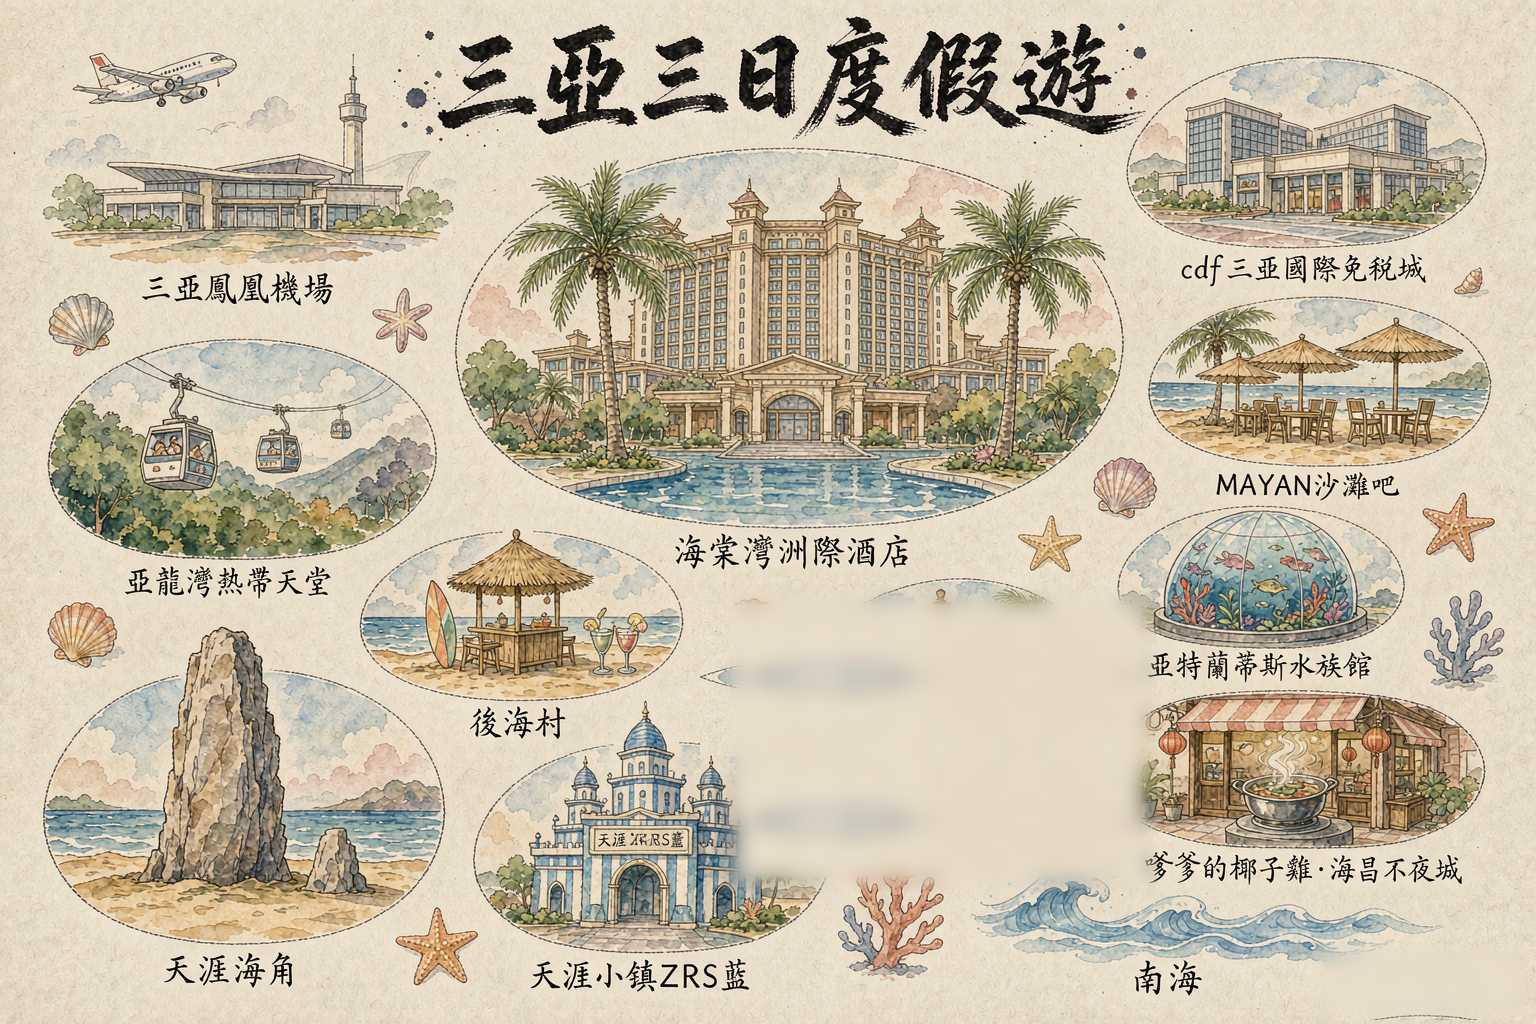
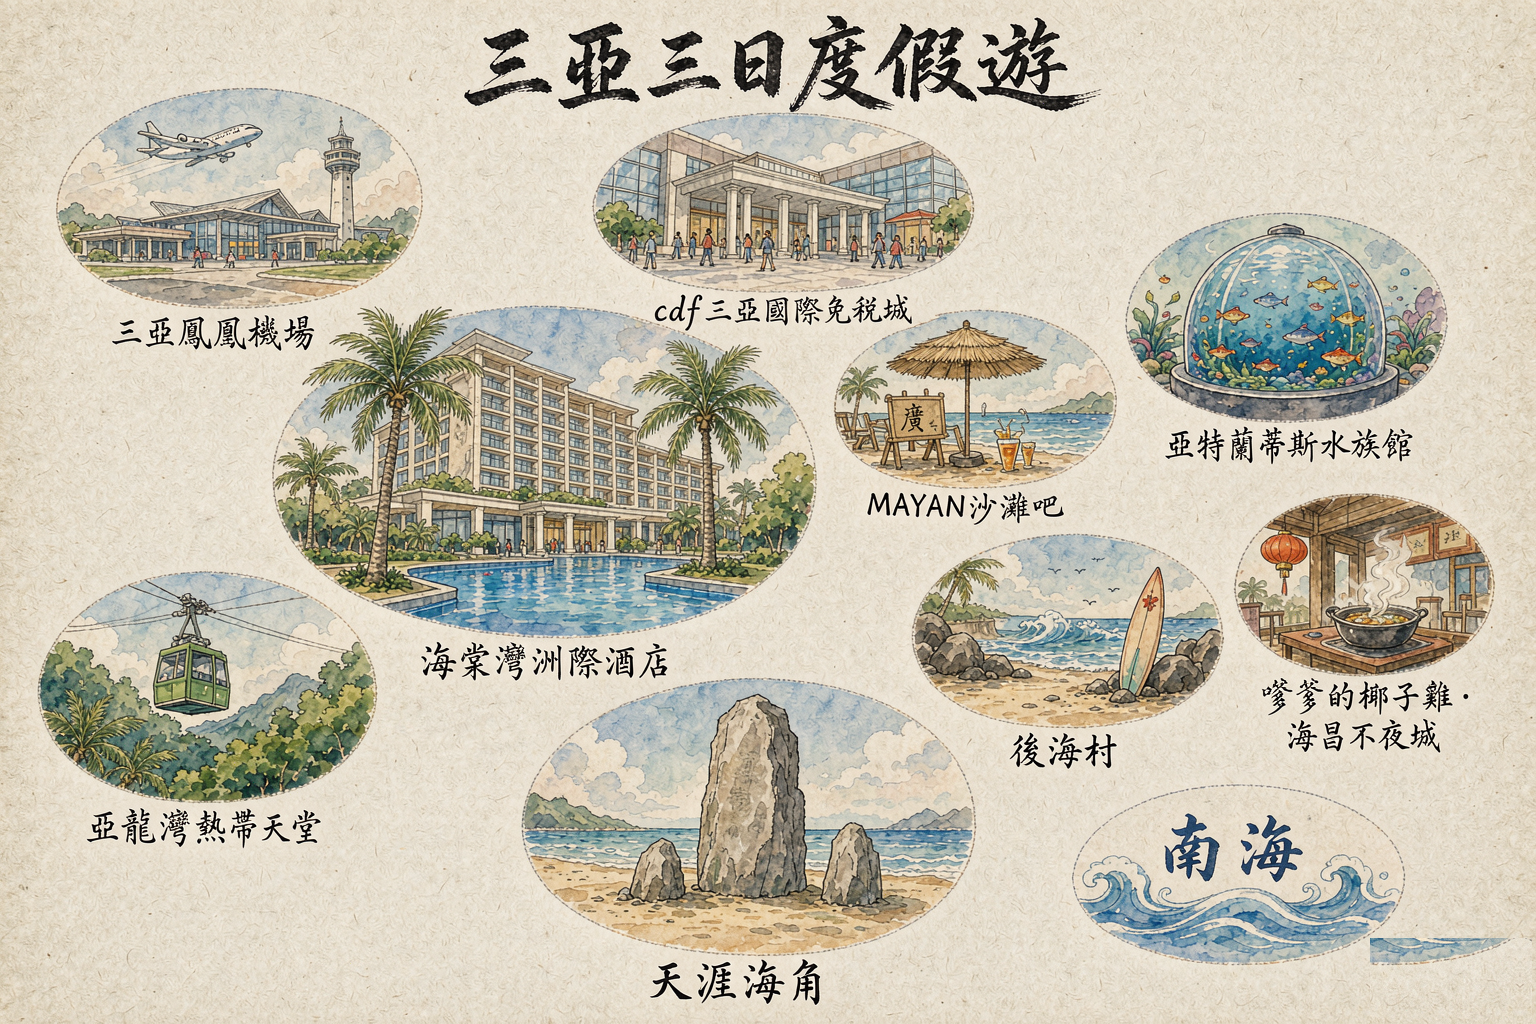
Sanya cover map v3: regenerated clean 10-vignette base (no ZRS, no duplicates, no lines); watermark removed via mirrored paper grain instead of blur - fixes hazy patch

diff --git a/sanya/index.html b/sanya/index.html
@@ -700,7 +700,7 @@ table.t tr.sum td:first-child{color:var(--sea-700)}
   <div class="wrap">
     <figure class="summ rv">
       <div class="summ__frame">
-        <img src="assets/cartoon-preview/map_web.jpg"
+        <img src="assets/cartoon-preview/map_web.jpg?v=3"
              alt="三亞三日度假遊手繪水彩行程地圖"
              loading="lazy" decoding="async"
              width="1536" height="1024">

diff --git a/sanya/assets/cartoon-preview/cover_overlay.py b/sanya/assets/cartoon-preview/cover_overlay.py
@@ -1,135 +1,26 @@
 # -*- coding: utf-8 -*-
-import math, random
-from PIL import Image, ImageDraw, ImageFont, ImageFilter
+import random
+from PIL import Image
 
-SRC = "A_hand_drawn_watercolor_illust_2026-10-06T02-33-54.png"
+SRC = "A_hand_drawn_watercolor_illust_2026-10-06T05-20-31.png"
 im = Image.open(SRC).convert("RGB").resize((1536, 1024), Image.LANCZOS)
 arr = im.load()
 W, H = 1536, 1024
+rng = random.Random(7)
 
-EXCLUDE = [(890, 620, 1210, 870), (730, 595, 1150, 885), (1240, 900, W, H)]
-
-def find_clean_block(bw, bh):
-    """Scan for the smoothest, lightest paper window of size bw x bh."""
-    g = im.convert('L')
-    gp = g.load()
-    best, best_score = None, 1e9
-    for y0 in range(2, H - bh - 2, 12):
-        for x0 in range(2, W - bw - 2, 16):
-            if any(x0 < ex1 and x0 + bw > ex0 and y0 < ey1 and y0 + bh > ey0
-                   for ex0, ey0, ex1, ey1 in EXCLUDE):
-                continue
-            mn, mx, s, s2 = 255, 0, 0.0, 0.0
-            n = 0
-            for y in range(y0, y0 + bh, 4):
-                for x in range(x0, x0 + bw, 6):
-                    v = gp[x, y]
-                    if v < mn: mn = v
-                    if v > mx: mx = v
-                    s += v; s2 += v * v; n += 1
-            mean = s / n
-            var = s2 / n - mean * mean
-            score = var ** 0.5 + max(0, 170 - mn) * 2 + max(0, mean - 225) * 2
-            if score < best_score:
-                best_score, best = score, (x0, y0)
-    return best[0], best[1], best[0] + bw, best[1] + bh
-
-CLEAN = find_clean_block(285, 72)
-
-def paper_fill(x0, y0, x1, y1, seed=3, noise=4):
-    """Clone-stamp the cleanest paper block found."""
-    rng = random.Random(seed)
-    sx0, sy0, sx1, sy1 = CLEAN
-    bw, bh = sx1 - sx0, sy1 - sy0
-    for y in range(y0, y1):
-        iy = (y - y0) % (2 * bh)
-        src_y = sy0 + (iy if iy < bh else 2 * bh - iy - 1)
-        for x in range(x0, x1):
-            ix = (x - x0) % (2 * bw)
-            src_x = sx0 + (ix if ix < bw else 2 * bw - ix - 1)
-            c = arr[src_x, src_y]
-            n = rng.randint(-noise, noise)
-            arr[x, y] = tuple(max(0, min(255, c[i]+n)) for i in range(3))
-
-paper_fill(700, 605, 1140, 755, 3)
-paper_fill(740, 605, 1140, 875, 3)
-paper_fill(1330, 960, W-4, H-4, 9, 5)
-dr = ImageDraw.Draw(im)
-
-SC = {
-    "airport":  ((213, 128), (170, 85)),
-    "cdf":      ((1329, 156), (150, 72)),
-    "hotel":    ((774, 362), (306, 192)),
-    "mayan":    ((1329, 402), (163, 68)),
-    "aquarium": ((1294, 637), (128, 75)),
-    "diadia":   ((1304, 796), (146, 71)),
-    "houhai":   ((480, 630), (117, 82)),
-    "yalong":   ((242, 490), (156, 100)),
-    "tianya":   ((256, 819), (199, 103)),
-    "town":     ((619, 846), (114, 92)),
-}
-GAP = 10
-
-def edge(p_from, p_to, r):
-    dx, dy = p_to[0]-p_from[0], p_to[1]-p_from[1]
-    L = math.hypot(dx, dy) or 1.0
-    ux, uy = dx/L, dy/L
-    ray = 1.0/math.sqrt((ux/r[0])**2 + (uy/r[1])**2)
-    k = min(ray + GAP, L)
-    return (p_from[0] + ux*k, p_from[1] + uy*k)
-
-def qbez(p0, pc, p2, t):
-    mt = 1 - t
-    return (mt*mt*p0[0] + 2*mt*t*pc[0] + t*t*p2[0],
-            mt*mt*p0[1] + 2*mt*t*pc[1] + t*t*p2[1])
-
-def dashed(dr, pts, color, dash=15, gap=11, width=6):
-    cur = pts[0]
-    on, remain = True, float(dash)
-    for nxt in pts[1:]:
-        seg = math.hypot(nxt[0]-cur[0], nxt[1]-cur[1])
-        t = 0.0
-        while t < seg:
-            step = min(remain, seg - t)
-            a = (cur[0] + (nxt[0]-cur[0])*t/seg, cur[1] + (nxt[1]-cur[1])*t/seg)
-            if on:
-                b = (cur[0] + (nxt[0]-cur[0])*min(t+step, seg)/seg,
-                     cur[1] + (nxt[1]-cur[1])*min(t+step, seg)/seg)
-                dr.line([a, b], fill=color, width=width)
-                r = width/2
-                dr.ellipse([a[0]-r, a[1]-r, a[0]+r, a[1]+r], fill=color)
-                dr.ellipse([b[0]-r, b[1]-r, b[0]+r, b[1]+r], fill=color)
-            t += step
-            remain -= step
-            if remain <= 0.001:
-                on, remain = (False, gap) if on else (True, dash)
-        cur = nxt
-
-def leg(a, b, color, ctrl=None):
-    p1, r1 = SC[a]; p2, r2 = SC[b]
-    A = edge(p1, p2, r1); B = edge(p2, p1, r2)
-    pts = [A, B] if ctrl is None else [qbez(A, ctrl, B, i/90.0) for i in range(91)]
-    dashed(dr, pts, color)
-
-# 2026-10-06 per user: no route lines, no day badges — key locations only
-
-def soften(x0, y0, x1, y1, rad=9, feather=20):
-    """Blur the filled area to hide tile seams, feathered at borders."""
-    box = (max(0, x0 - feather), max(0, y0 - feather),
-           min(W, x1 + feather), min(H, y1 + feather))
-    region = im.crop(box).filter(ImageFilter.GaussianBlur(rad))
-    mask = Image.new('L', (box[2] - box[0], box[3] - box[1]), 0)
-    md = mask.load()
-    for yy in range(mask.height):
-        for xx in range(mask.width):
-            dx = min(xx, mask.width - 1 - xx)
-            dy = min(yy, mask.height - 1 - yy)
-            md[xx, yy] = int(255 * min(1.0, min(dx, dy) / feather))
-    im.paste(region, box, mask)
-
-soften(740, 605, 1140, 875)
-soften(1330, 960, W - 4, H - 4)
+# Remove AI watermark (bottom-right): mirror the clean paper strip to its left.
+# No blur, no distant clone - local mirrored grain keeps the paper texture identical.
+X0, Y0, X1, Y1 = 1370, 938, 1532, 1024
+SW = 150  # clean paper strip to the left: x 1228-1380
+for y in range(Y0, Y1):
+    for x in range(X0, X1):
+        m = (x - X0) % (2 * SW)
+        sx = (X0 - SW) + (m if m < SW else 2 * SW - m - 1)
+        c = arr[sx, y]
+        n = rng.randint(-3, 3)
+        arr[x, y] = tuple(max(0, min(255, c[i] + n)) for i in range(3))
 
 im.save("cover_no_wm.png")
-im.resize((1080, 720)).save("_cover_prev.png")
+im.save("map_web.jpg", "JPEG", quality=88, optimize=True, progressive=True)
+im.resize((1080, 720)).save("_prev_v5.png")
 print("saved")
